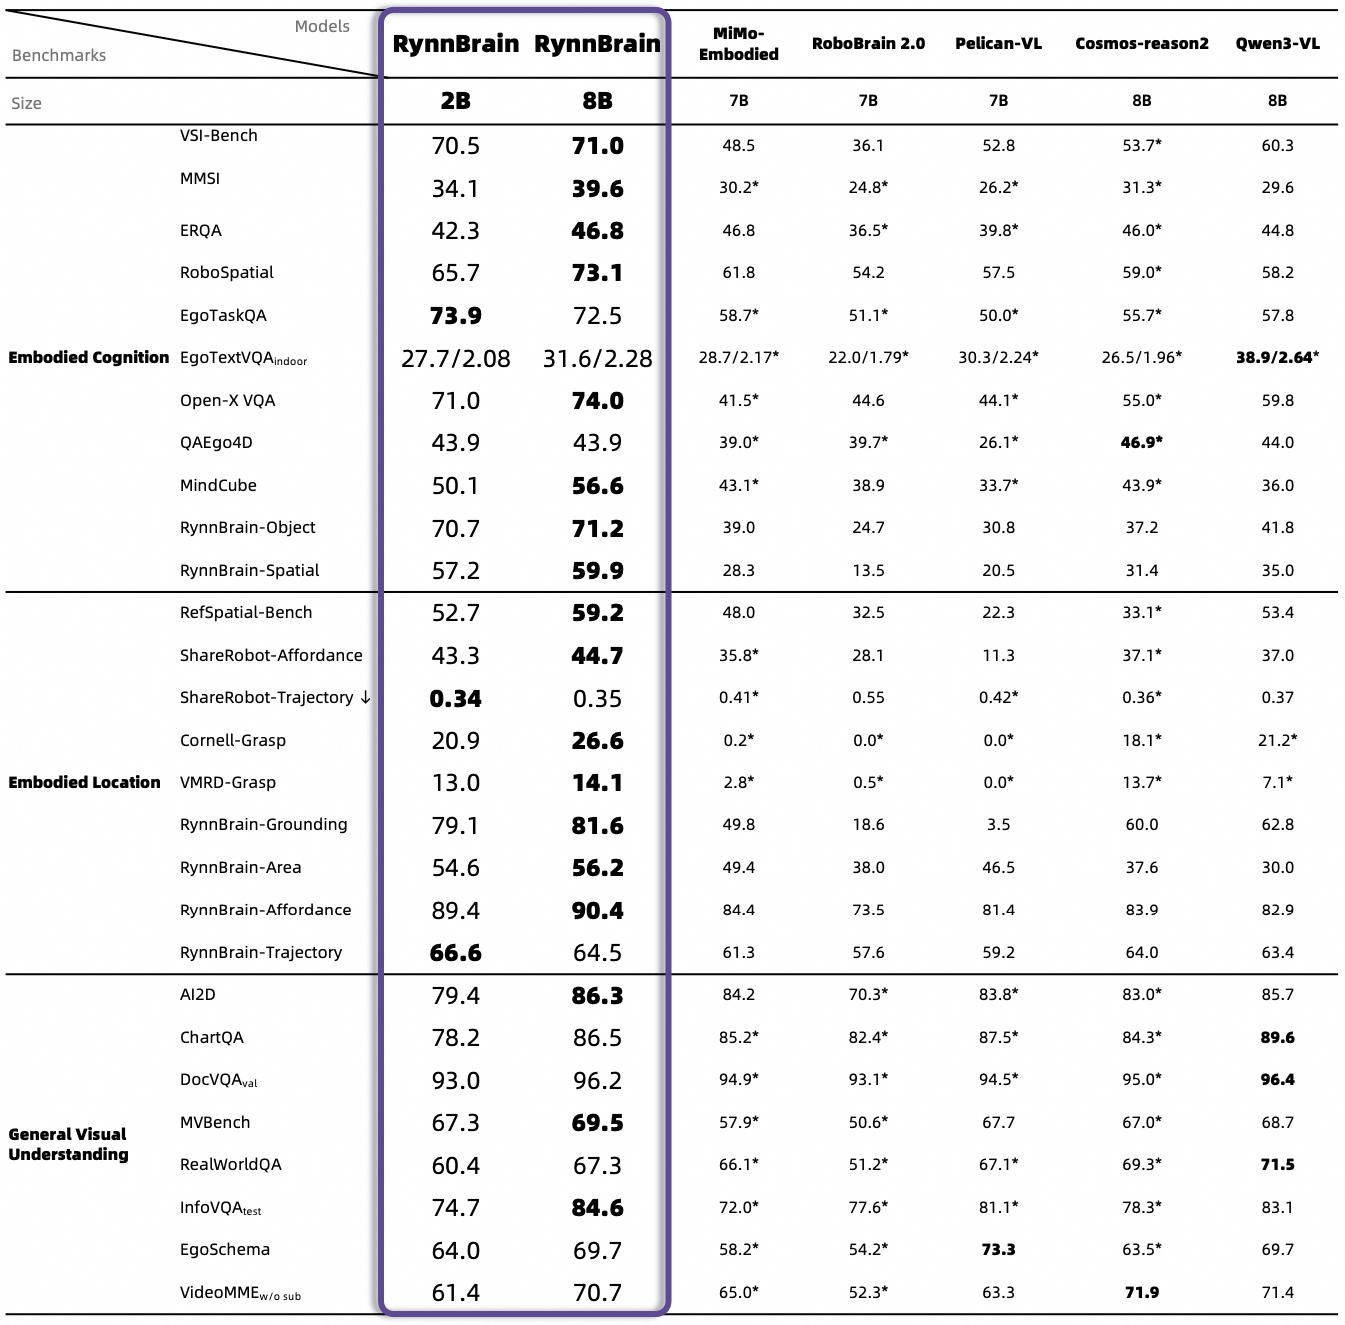
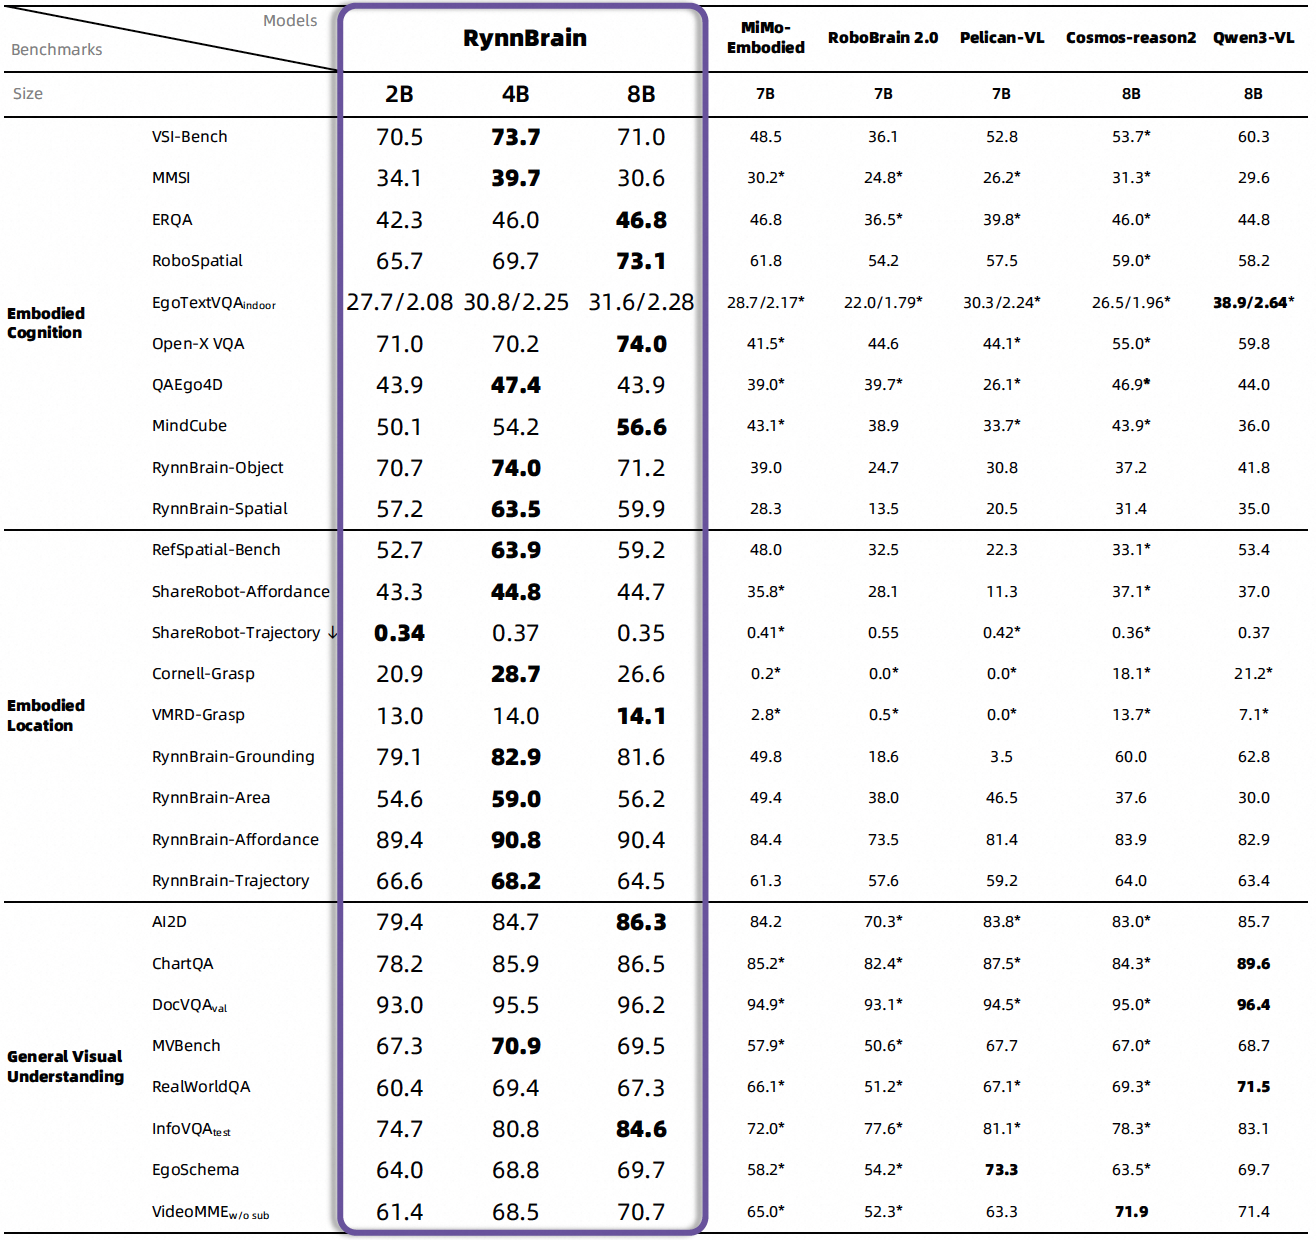
update RynnBrain-4B

Changed region(s): [[0.0, 0.0, 0.997, 1.0], [0.0, 0.8274, 0.0935, 0.8887]]

diff --git a/README.md b/README.md
@@ -9,6 +9,7 @@
 
 
 ## 📰 News
+* **[2026.04.13]**  🔥🔥 Launch the brand-new <a href="https://huggingface.co/Alibaba-DAMO-Academy/RynnBrain-4B">RynnBrain-4B </a> !!
 * **[2026.02.17]**  🔥🔥 Release our Technical Report on <a href="https://arxiv.org/abs/2602.14979v1">arXiv </a> !!
 * **[2026.02.15]**  🔥🔥 Release our <a href="https://alibaba-damo-academy.github.io/RynnBrain.github.io/assets/RynnBrain_Report.pdf">Technical Report</a> !!
 * **[2026.02.09]**  🔥🔥 Release our code and model checkpoints!!
@@ -16,7 +17,7 @@
 
 
 ## Introduction
-We present **RynnBrain**, an embodied foundation model grounded in physical reality. RynnBrain is available in two dense variants (2B and 8B) and one mixture-of-experts (MoE) model (30B-A3B). 
+We present **RynnBrain**, an embodied foundation model grounded in physical reality. RynnBrain is available in three dense variants (2B, 4B, and 8B) and one mixture-of-experts (MoE) model (30B-A3B). 
 In addition, we release three post‑trained models: RynnBrain‑Plan (**robot task planning**), RynnBrain‑Nav (**vision-language navigation**), and RynnBrain‑CoP (**chain-of-point reasoning**). 
 <!-- RynnBrain‑Plan demonstrates the effectiveness of the fine‑grained manipulation‑planning paradigm that alternates between textual reasoning and localization. -->
 <!-- RynnBrain‑Nav verifies that using RynnBrain as the foundation model can substantially enhance the performance ceiling of various embodied task models.  -->
@@ -75,6 +76,7 @@ Through massive training on rich spatio-temporal, physical-space, and general kn
 | Model            | Base Model           | HuggingFace | ModelScope |
 | :--------------- | :------------------- | :---------: | :--------: |
 | RynnBrain-2B  | Qwen3-VL-2B-Instruct | [Link](https://huggingface.co/Alibaba-DAMO-Academy/RynnBrain-2B)    | [Link](https://www.modelscope.cn/models/DAMO_Academy/RynnBrain-2B)   |
+| RynnBrain-4B  | Qwen3-VL-4B-Instruct | [Link](https://huggingface.co/Alibaba-DAMO-Academy/RynnBrain-4B)    | [Link](https://www.modelscope.cn/models/DAMO_Academy/RynnBrain-4B)   |
 | RynnBrain-8B  | Qwen3-VL-8B-Instruct | [Link](https://huggingface.co/Alibaba-DAMO-Academy/RynnBrain-8B)    | [Link](https://www.modelscope.cn/models/DAMO_Academy/RynnBrain-8B)   |
 | RynnBrain-30B-A3B  | Qwen3-VL-30B-A3B-Instruct | [Link](https://huggingface.co/Alibaba-DAMO-Academy/RynnBrain-30B-A3B)    | [Link](https://www.modelscope.cn/models/DAMO_Academy/RynnBrain-30B-A3B)   |
 | RynnBrain‑CoP-8B | RynnBrain-8B         | [Link](https://huggingface.co/Alibaba-DAMO-Academy/RynnBrain-CoP-8B)    | [Link](https://www.modelscope.cn/models/DAMO_Academy/RynnBrain-CoP-8B)   |
